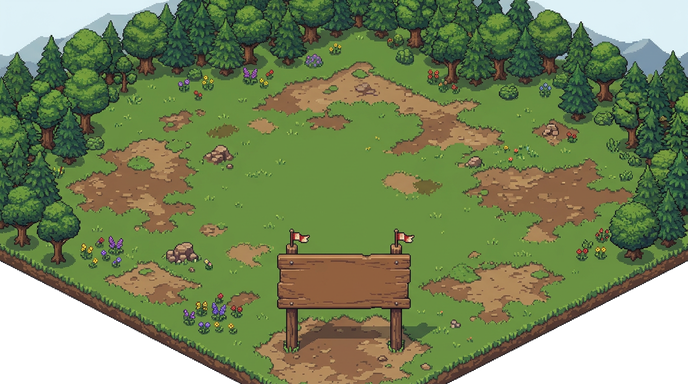
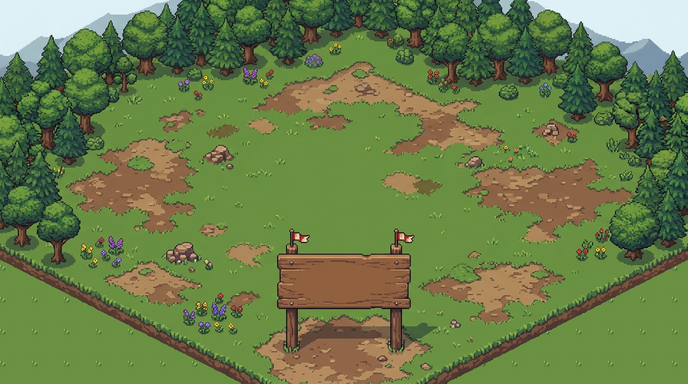
Update website 16 Nov 06:47 WIB
Claude-Session: https://claude.ai/code/session_01Y9X5ZAvt984SygKUASYCF2

Changed region(s): [[0.641, 0.6562, 1.0, 1.0], [0.0, 0.6875, 0.3663, 1.0]]

diff --git a/peta.js b/peta.js
@@ -113,8 +113,11 @@
 
   // ---------- canvas / camera ----------
   let cv, cx, cam = { x: ISL.cx, y: ISL.cy, z: 3 }, dpr = 1, last = 0;
-  const zMin = () => Math.max(1.5, Math.min(cv.width / dpr / WW, cv.height / dpr / WH) * 0.95), zMax = 9;
-  function clampCam() { cam.z = Math.max(zMin(), Math.min(zMax, cam.z)); cam.x = Math.max(20, Math.min(WW - 20, cam.x)); cam.y = Math.max(20, Math.min(WH - 20, cam.y)); }
+  const SB = { x0: 0, x1: 360, y0: 50, y1: 251 };   // batas gambar lahan (SMODE): layar selalu penuh lahan
+  const zMin = () => SMODE ? Math.max(cv.width / dpr / (SB.x1 - SB.x0), cv.height / dpr / (SB.y1 - SB.y0)) * 1.001 : Math.max(1.5, Math.min(cv.width / dpr / WW, cv.height / dpr / WH) * 0.95), zMax = 9;
+  function clampCam() { cam.z = Math.max(zMin(), Math.min(zMax, cam.z));
+    if (SMODE) { const hw = cv.width / dpr / cam.z / 2, hh = cv.height / dpr / cam.z / 2; cam.x = Math.max(SB.x0 + hw, Math.min(SB.x1 - hw, cam.x)); cam.y = Math.max(SB.y0 + hh, Math.min(SB.y1 - hh, cam.y)); return; }
+    cam.x = Math.max(20, Math.min(WW - 20, cam.x)); cam.y = Math.max(20, Math.min(WH - 20, cam.y)); }
   function resize() { const r = cv.getBoundingClientRect(); dpr = Math.min(2, window.devicePixelRatio || 1); cv.width = Math.round(r.width * dpr); cv.height = Math.round(r.height * dpr); clampCam(); }
   const toScreen = (x, y) => [(x - cam.x) * cam.z * dpr + cv.width / 2, (y - cam.y) * cam.z * dpr + cv.height / 2];
   const toWorld = (sx, sy) => [(sx * dpr - cv.width / 2) / (cam.z * dpr) + cam.x, (sy * dpr - cv.height / 2) / (cam.z * dpr) + cam.y];
@@ -358,7 +361,7 @@
   }
 
   window.PETA = {
-    init(canvas) { cv = canvas; cx = cv.getContext('2d'); drawBg(); resize(); cam.z = Math.max(zMin(), 2.6); clampCam(); bindInput(); requestAnimationFrame(frame);
+    init(canvas) { cv = canvas; cx = cv.getContext('2d'); drawBg(); resize(); cam.z = Math.max(zMin(), 2.6); if (SMODE) cam.y = 175; clampCam(); bindInput(); requestAnimationFrame(frame);
       setInterval(() => { if (isKota() === KMODE && isFant() === FMODE) return; KMODE = isKota(); FMODE = isFant(); applyLayout(); g.clearRect(0, 0, WW, WH); drawBg();
         P.walkers.forEach(o => { const s = spot(o.w.no * 2.91 + 9); o.x = o.tx = s.x; o.y = o.ty = s.y; o.home = homeOf(o.w); o.sleep = false; });
         const [ex, ey] = KMODE ? ENTRY() : [HOME.x + 2, HOME.y + 1]; U.x = U.tx = ex; U.y = U.ty = ey; }, 20000); },
@@ -367,7 +370,7 @@
     focus(no) { const o = P.byNo.get(no); if (!o) return false; P.sel = o; const z0 = cam.z, x0 = cam.x, y0 = cam.y, z1 = Math.max(5, z0), t0 = performance.now();
       const go = ts => { const k = Math.min(1, (ts - t0) / 700), e = k < 0.5 ? 2 * k * k : 1 - Math.pow(-2 * k + 2, 2) / 2; cam.x = x0 + (o.x - x0) * e; cam.y = y0 + (o.y - 8 - y0) * e; cam.z = z0 + (z1 - z0) * e; clampCam(); if (k < 1) requestAnimationFrame(go); }; requestAnimationFrame(go); return true; },
     zoom(f) { cam.z *= f; clampCam(); },
-    reset() { cam = { x: ISL.cx, y: ISL.cy, z: Math.max(zMin(), 2.6) }; clampCam(); P.sel = null; },
+    reset() { cam = { x: ISL.cx, y: SMODE ? 175 : ISL.cy, z: Math.max(zMin(), 2.6) }; clampCam(); P.sel = null; },
     showAll(v) { P.showAll = v; },
     onPick(f) { P.onPick = f; },
     onSawit(f) { P.onSawit = f; },

diff --git a/index.html b/index.html
@@ -16,7 +16,7 @@
 <link rel="icon" href="img/icon.png">
 <link rel="preconnect" href="https://fonts.googleapis.com">
 <link rel="stylesheet" href="https://fonts.googleapis.com/css2?family=Silkscreen:wght@400;700&family=Inter:wght@400;500;600;700&display=swap">
-<link rel="stylesheet" href="style.css?v=20261115c">
+<link rel="stylesheet" href="style.css?v=20261115d">
 </head>
 <body class="app">
 <div id="demoBar" class="demo" hidden>MODE DEMO: belum tersambung database, data contoh tersimpan di browser ini saja.</div>
@@ -225,17 +225,17 @@
 
 <footer class="foot"><div class="wrap"><div class="btns sos-foot" id="sosFoot"></div>Kota Sikepo · dibuat oleh Wali Kota Udin dan warganya · <span id="fMode"></span></div></footer>
 
-<script src="config.js?v=20261115c"></script>
+<script src="config.js?v=20261115d"></script>
 <script src="vendor/supabase.js"></script>
-<script src="kartu.js?v=20261115c"></script>
-<script src="data.js?v=20261115c"></script>
-<script src="kota3.js?v=20261115c"></script>
-<script src="fantasy3.js?v=20261115c"></script>
-<script src="peta.js?v=20261115c"></script>
-<script src="pov.js?v=20261115c"></script>
-<script src="tavern.js?v=20261115c"></script>
-<script src="onboard.js?v=20261115c"></script>
-<script src="app2.js?v=20261115c"></script>
-<script src="app.js?v=20261115c"></script>
+<script src="kartu.js?v=20261115d"></script>
+<script src="data.js?v=20261115d"></script>
+<script src="kota3.js?v=20261115d"></script>
+<script src="fantasy3.js?v=20261115d"></script>
+<script src="peta.js?v=20261115d"></script>
+<script src="pov.js?v=20261115d"></script>
+<script src="tavern.js?v=20261115d"></script>
+<script src="onboard.js?v=20261115d"></script>
+<script src="app2.js?v=20261115d"></script>
+<script src="app.js?v=20261115d"></script>
 </body>
 </html>
